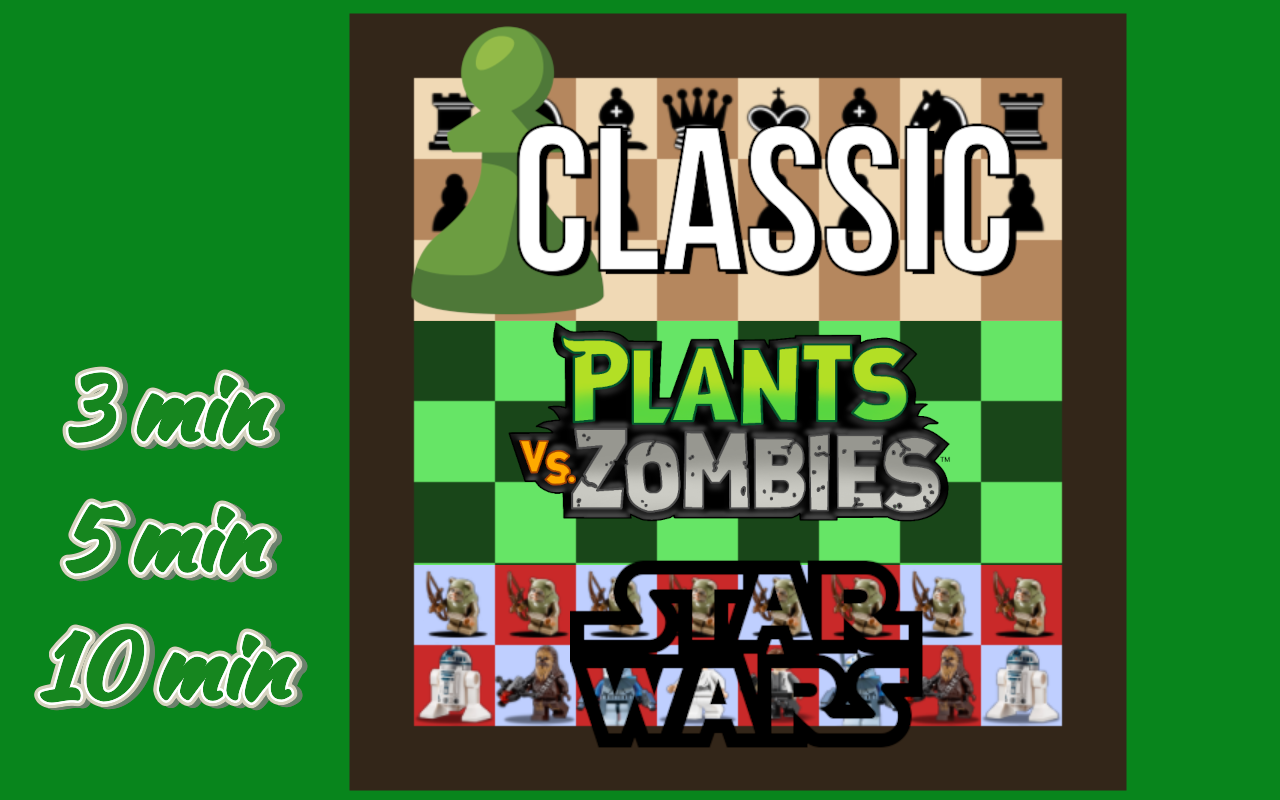
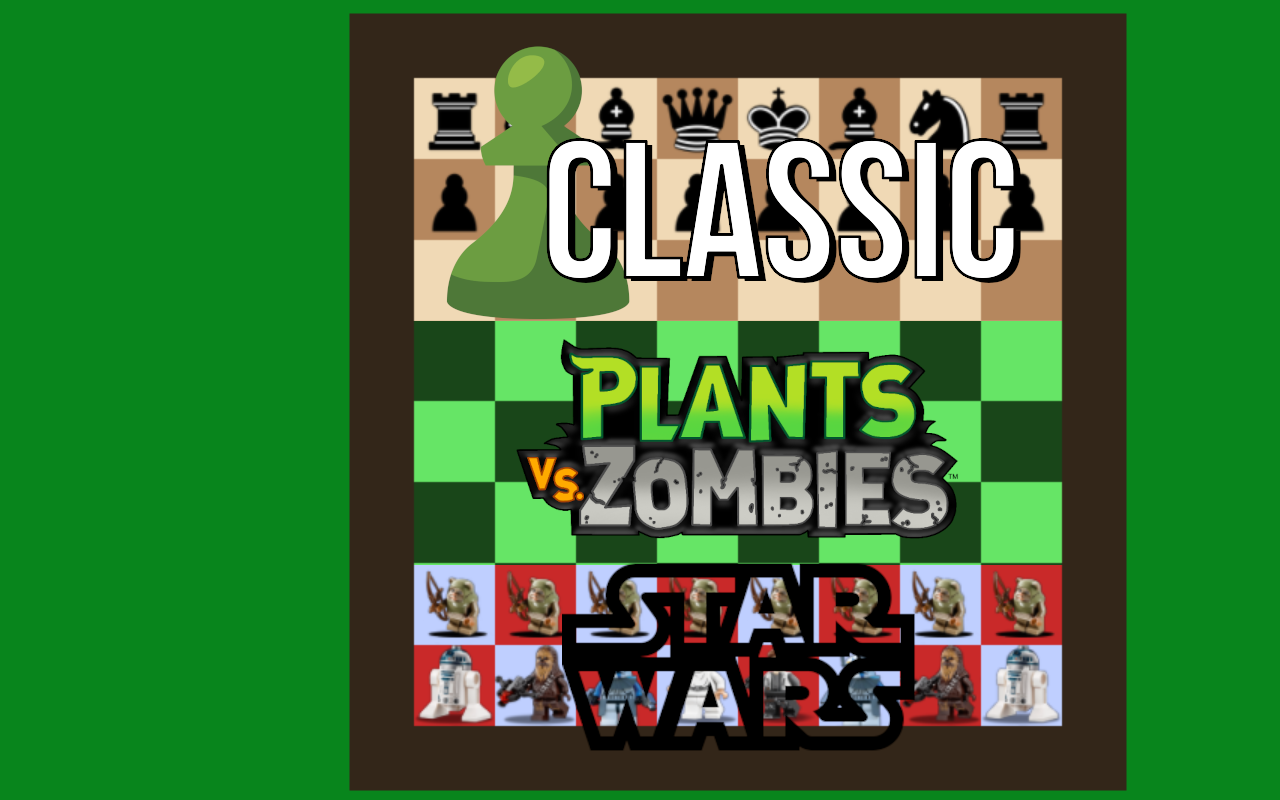
Rework of Opcion menu

diff --git a/src/Menu.cpp b/src/Menu.cpp
@@ -94,9 +94,13 @@ void Menu::menusIni(Interface inter)
 	coordinate coordenadas;
 	coordenadas.x = 0;
 	coordenadas.y = 0;
-	Estado = 3;//play
+	Estado = 4;//play
 	EstadoSkin = 1;//classic
 	imagenInstruccion = 1;
+	tiempo = 180; //3min default
+	aum3min = 1.2;
+	aum5min = 1.0;
+	aum10min = 1.0;
 }
 
 void Menu::drawInicio(void) {
@@ -315,6 +319,31 @@ void Menu::botonVentana(int button, int state, int x, int y)
 			EstadoSkin = sw;
 			drawOpcion();
 		}
+		//Time buttons
+		if (Boton3min.isInside(button, state, x, y))
+		{
+			tiempo = 180;
+			aum3min = 1.2;
+			aum5min = 1.0;
+			aum10min = 1.0;
+		}
+		if (Boton5min.isInside(button, state, x, y))
+		{
+			tiempo = 300;
+			tiempo = 180;
+			aum3min = 1.0;
+			aum5min = 1.2;
+			aum10min = 1.0;
+		}
+		if (Boton10min.isInside(button, state, x, y))
+		{
+			tiempo = 600;
+			tiempo = 180;
+			aum3min = 1.0;
+			aum5min = 1.0;
+			aum10min = 1.2;
+
+		}
 
 		if (homefromBoton.isInside(button, state, x, y)) Estado = DEPASO_MENU;
 	}
@@ -324,10 +353,12 @@ void Menu::botonVentana(int button, int state, int x, int y)
 		//std::cout << "Probando"<< BotonGuardar.isInside(button, state, x, y);
 		if (BotonGuardar.isInside(button, state, x, y)) 
 		{
+			
 			std::cout << "GUARDADO";
 		}
-		if (BotonCargar.isInside(button, state, x, y))
+		if (BotonExit.isInside(button, state, x, y))
 		{
+			Estado = EXIT_MENU;
 			std::cout << "CARGADO";
 		}
 		
@@ -400,17 +431,26 @@ void Menu::botonHomeDraw() {
 
 void Menu::drawOpcion(void) {
 	//Common parameters of the buttons
-	int buttonsHeightMenu = 4 * glutGet(GLUT_WINDOW_HEIGHT) / 20;
-	int buttonsXPosition = 6 * glutGet(GLUT_WINDOW_WIDTH) / 20;
-	int const r = 250, g = 0, b = 250;
-	//dibujando los botones
-	classic.Set(buttonsXPosition, 13 * glutGet(GLUT_WINDOW_HEIGHT) / 20, 8 * glutGet(GLUT_WINDOW_WIDTH) / 20, buttonsHeightMenu);//, r, g, b);
-	buttonsXPosition = 7 * glutGet(GLUT_WINDOW_WIDTH) / 20;// cambiamos posicion x
-	pvsz.Set(buttonsXPosition, 7.5 * glutGet(GLUT_WINDOW_HEIGHT) / 20, 6 * glutGet(GLUT_WINDOW_WIDTH) / 20, buttonsHeightMenu, r, g, b);
-	sw.Set(buttonsXPosition, 2 * glutGet(GLUT_WINDOW_HEIGHT) / 20, 6 * glutGet(GLUT_WINDOW_WIDTH) / 20, buttonsHeightMenu, r, g, b);
-	classic.Draw();
-	pvsz.Draw();
-	sw.Draw();
+	float w = glutGet(GLUT_WINDOW_WIDTH);
+	float h = glutGet(GLUT_WINDOW_HEIGHT);
+	float buttonsHeightMenu = 27 * h / 100;
+	float timebuttonsHeight = 10 * h / 100;
+	float buttonsXPosition = 32.5 * w / 100;
+	float timebuttonsXPosition = w * 3 / 64;
+	float buttonslength = 50 * w / 100;
+	float timebuttonslength = 20 * w / 100;
+	float const r = 250, g = 0, b = 250;
+	//Sets properties of each button
+		classic.Set(buttonsXPosition, 12 * h / 20, buttonslength, buttonsHeightMenu,250,0,0);//, r, g, b);
+		pvsz.Set(buttonsXPosition, 6.5 * h / 20, buttonslength, buttonsHeightMenu, 0, 250, 0);
+		sw.Set(buttonsXPosition, 1 * h / 20, buttonslength, buttonsHeightMenu, 0, 0, 250);
+		Boton3min.Set(timebuttonsXPosition, h * 28 / 64, timebuttonslength* aum3min, timebuttonsHeight* aum3min,250,250,250);
+		Boton5min.Set(timebuttonsXPosition, h * 18 / 64, timebuttonslength* aum5min, timebuttonsHeight* aum5min, 250, 250, 250);
+		Boton10min.Set(timebuttonsXPosition, h * 8 / 64, timebuttonslength* aum10min, timebuttonsHeight* aum10min, 250, 250, 250);
+
+	//Draws each button
+	
+	
 	glDisable(GL_TEXTURE_2D);
 	//Background picture
 	glEnable(GL_TEXTURE_2D);
@@ -426,6 +466,23 @@ void Menu::drawOpcion(void) {
 	poligonoVistaImagen();
 	glDisable(GL_TEXTURE_2D);
 	//fin imagen fondo
+	
+	//Time button
+
+	glEnable(GL_TEXTURE_2D);
+	glBlendFunc(GL_SRC_ALPHA, GL_ONE_MINUS_SRC_ALPHA);
+	glEnable(GL_ALPHA_TEST);
+	glAlphaFunc(GL_GREATER, 0.5f);
+
+	glBindTexture(GL_TEXTURE_2D, ETSIDI::getTexture("imagenes/Opciones/3min.png").id);
+	Boton3min.Draw();
+	glBindTexture(GL_TEXTURE_2D, ETSIDI::getTexture("imagenes/Opciones/5min.png").id);
+	Boton5min.Draw();
+	glBindTexture(GL_TEXTURE_2D, ETSIDI::getTexture("imagenes/Opciones/10min.png").id);
+	Boton10min.Draw();
+	glDisable(GL_TEXTURE_2D);
+	glDisable(GL_ALPHA_TEST);
+	glDisable(GL_BLEND);
 
 	//DIBUJAR BOTON LLAMANDO A SU FUNCION
 	botonHomeDraw();
@@ -473,10 +530,8 @@ void Menu::drawSubmenu(void)
 	BotonReanudar.Set(6 * w / 16, 11 * h / 16, 4 * w / 16, 2 * h / 16, 200, 200, 200);
 	BotonMenuPpal.Set(5.5 * w / 16, 8 * h / 16, 5 * w / 16, 2 * h / 16, 200, 200, 200);
 	BotonGuardar.Set(4 * w / 16, 5 * h / 16, 3.25 * w / 16, 2 * h / 16, 200, 200, 200);
-	BotonCargar.Set(9 * w / 16, 5 * h / 16, 3 * w / 16, 2 * h / 16, 200, 200, 200);
-	Boton3min.Set(4 * w / 16, 2 * h / 16, 2 * w / 16, 2 * h / 16, 200, 200, 200);
-	Boton5min.Set(7 * w / 16, 2 * h / 16, 2 * w / 16, 2 * h / 16, 200, 200, 200);
-	Boton10min.Set(10 * w / 16, 2 * h / 16, 2 * w / 16, 2 * h / 16, 200, 200, 200);
+	BotonExit.Set(9 * w / 16, 5 * h / 16, 3 * w / 16, 2 * h / 16, 200, 200, 200);
+	
 
 	
 	//Drawing
@@ -495,7 +550,7 @@ void Menu::drawSubmenu(void)
 	BotonGuardar.Draw();
 
 	glBindTexture(GL_TEXTURE_2D, ETSIDI::getTexture("imagenes/Submenu/exit.png").id);
-	BotonCargar.Draw();
+	BotonExit.Draw();
 
 	glDisable(GL_TEXTURE_2D);
 	glDisable(GL_ALPHA_TEST);

diff --git a/src/Menu.h b/src/Menu.h
@@ -18,9 +18,11 @@ private:
 	Boton instrucciones, opciones, juego1vs1,
 		juego1vsia, creditos, Logo, depaso, exit;
 	//Buttons in options
-	Boton homefromBoton, classic, pvsz, sw, pk, visualiza;
+	Boton homefromBoton,Boton3min, Boton5min, Boton10min, classic, pvsz, sw, pk, visualiza;
+	int tiempo;
+	float aum3min, aum5min, aum10min;
 	//Buttons in submenu
-	Boton BotonGuardar, BotonCargar, Boton3min, Boton5min, Boton10min, BotonReanudar, BotonMenuPpal;
+	Boton BotonGuardar, BotonExit, BotonReanudar, BotonMenuPpal;
 	int aumento=1;
 	//Buttons in instrucciones
 	Boton BotonAnterior, BotonSiguiente;
